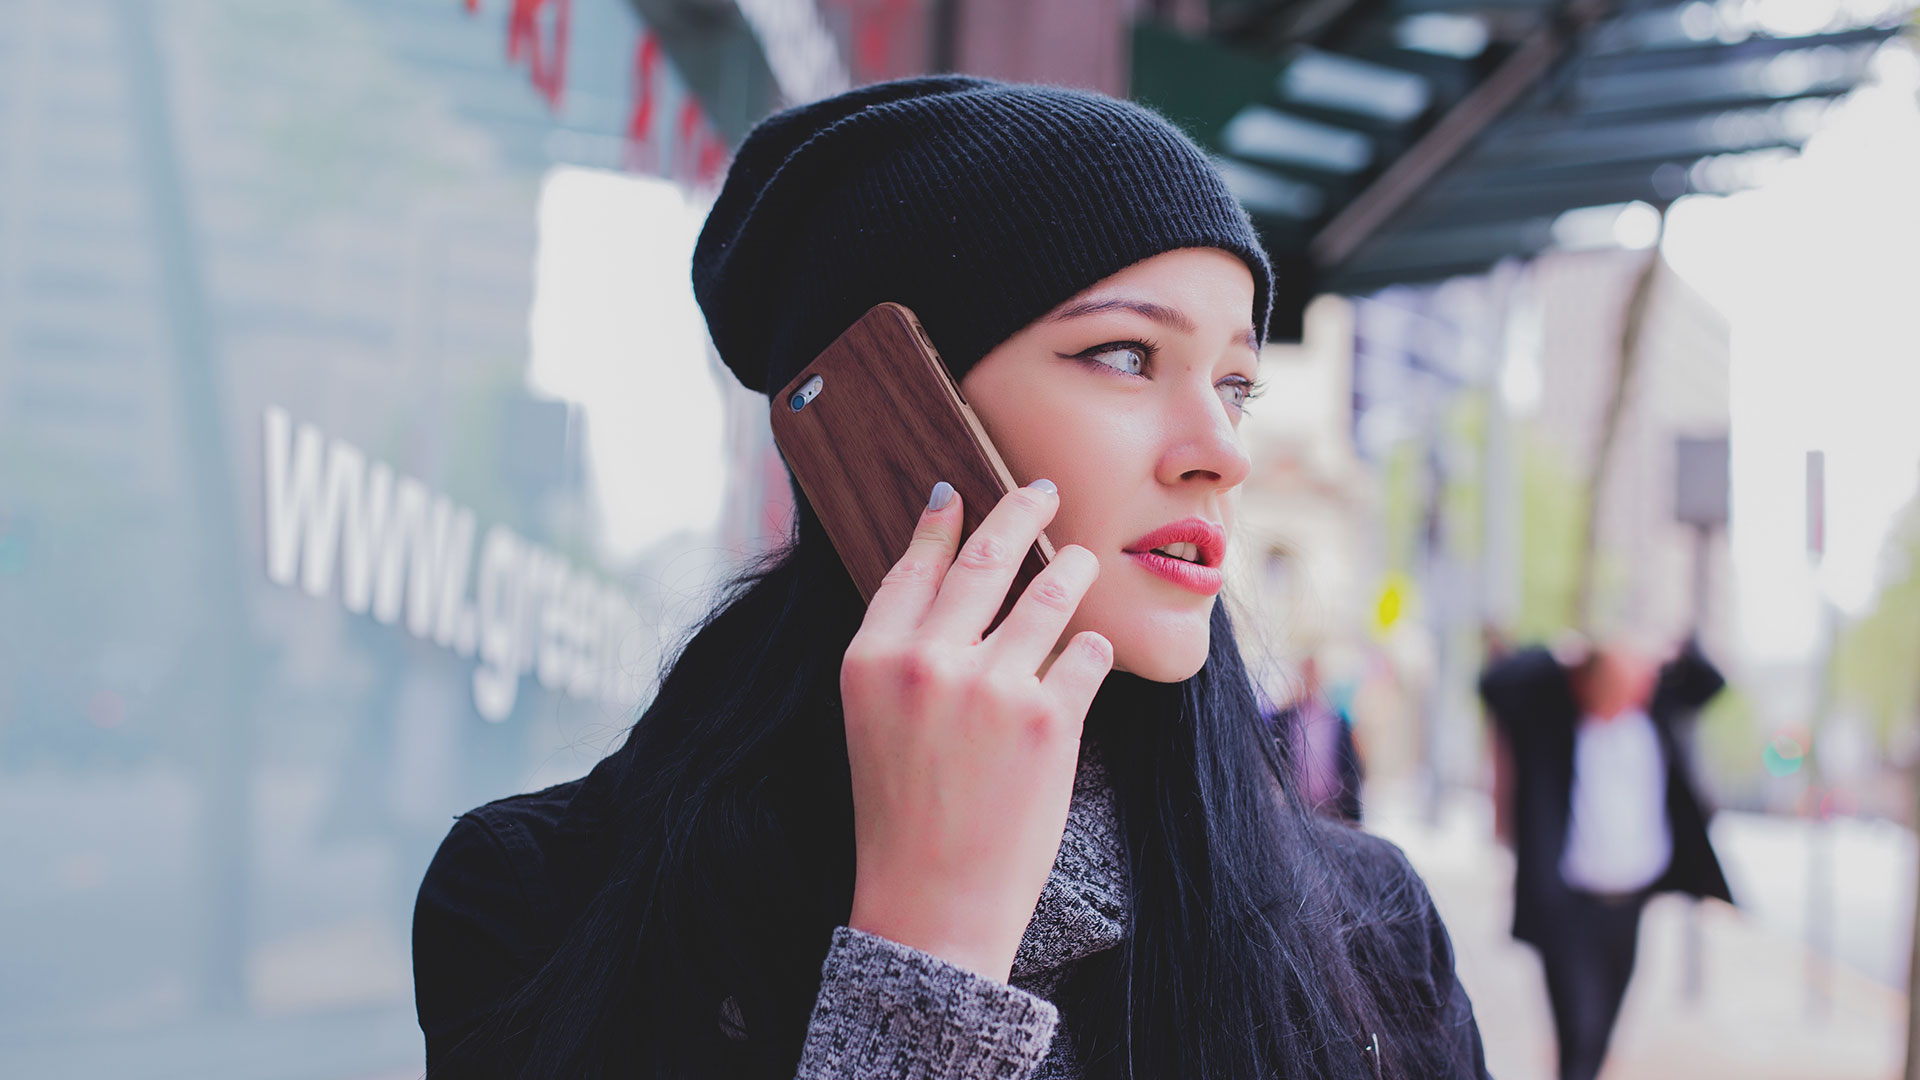
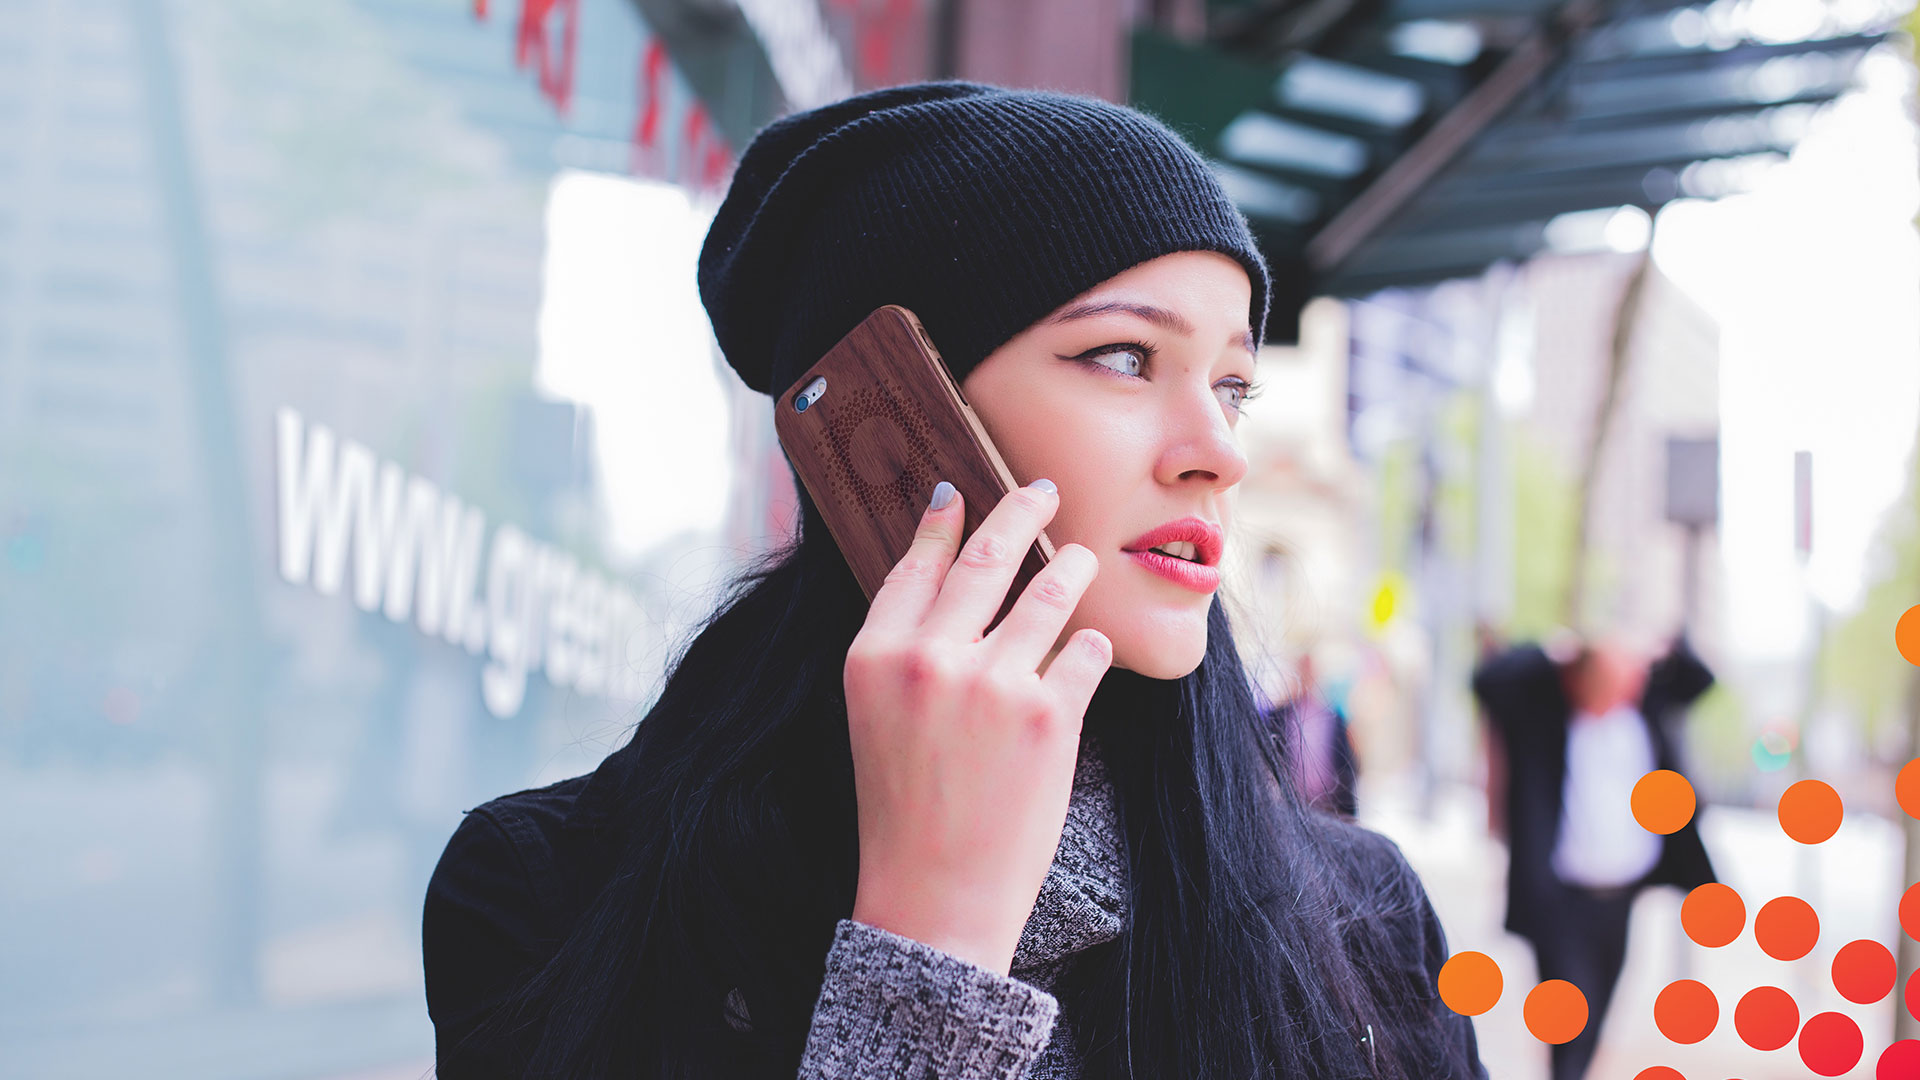
updating covers

diff --git a/src/files/css/style.css b/src/files/css/style.css
@@ -3985,7 +3985,7 @@ body.active .lines {
       width: 100%;
       height: 100%;
       background: #24262d;
-      opacity: 0.3; }
+      opacity: 0.2; }
   .home-slide .home-background {
     background-position: right center;
     background-size: cover;
@@ -4299,6 +4299,8 @@ body.active .lines {
     left: 0;
     width: 100%;
     height: 100%; }
+    .home-slide .home-background-holder:after {
+      opacity: 0.4; }
   .home-slide .home-background {
     background-position: center center;
     left: 0;

diff --git a/src/files/scss/home-slider.scss b/src/files/scss/home-slider.scss
@@ -109,7 +109,7 @@ body.active .lines{
       width: 100%;
       height: 100%;
       background: $dark;
-      opacity: 0.3;
+      opacity: 0.2;
     }
   }
 
@@ -439,6 +439,9 @@ body.active .lines{
       left: 0;
       width: 100%;
       height: 100%;
+      &:after{
+        opacity: 0.4;
+      }
     }
     .home-background{
       background-position: center center;
